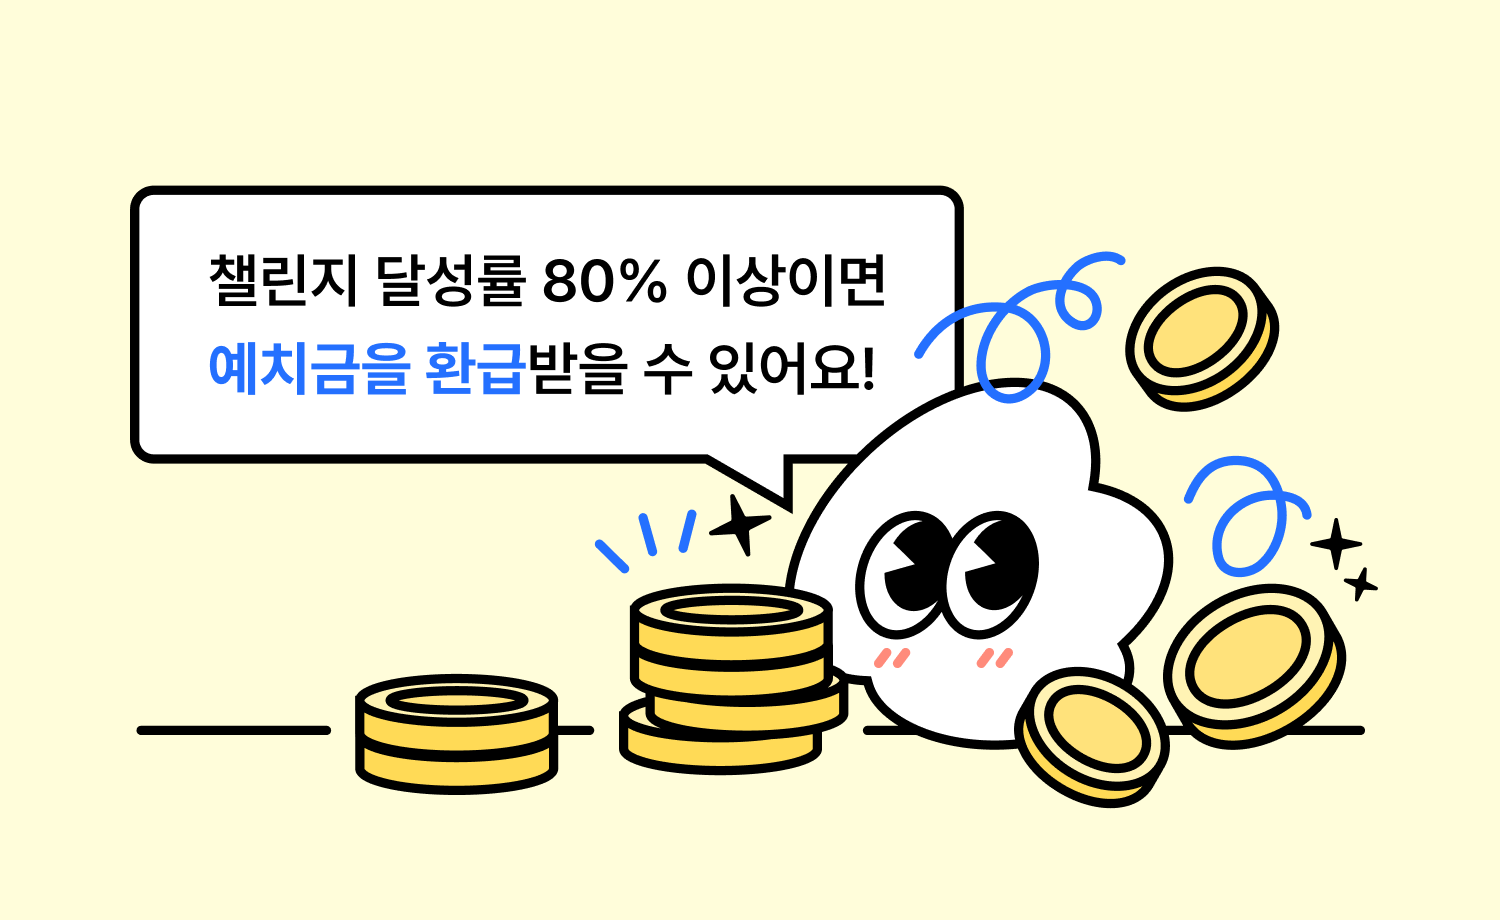
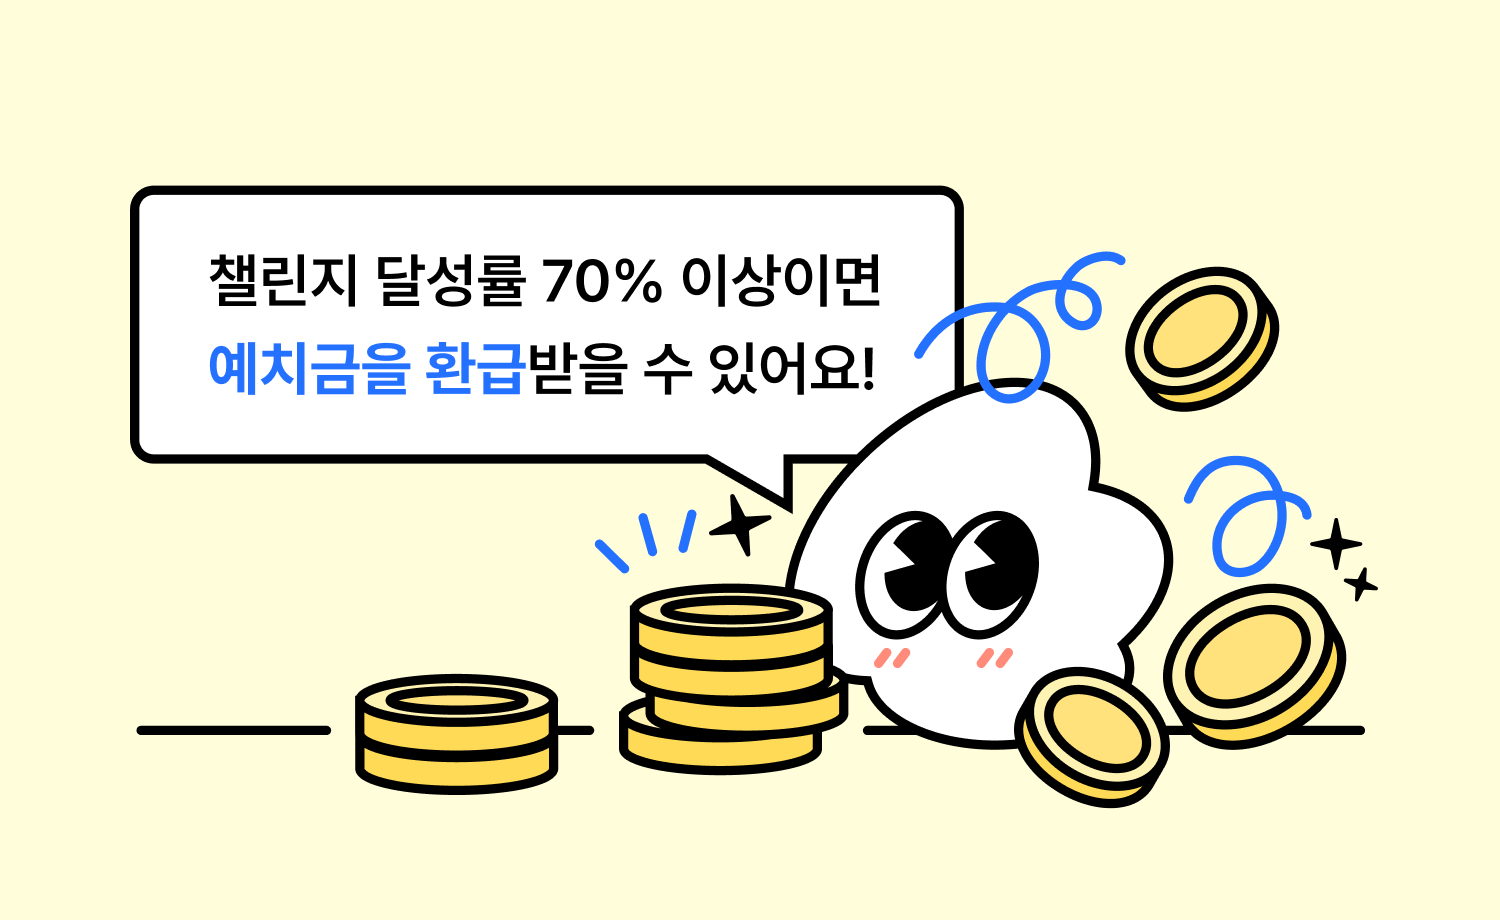
[⚙ chore] 달성률 기준 변경에 따른 홈 배너 이미지 변경 및 대체 텍스트 수정

Changed region(s): [[0.3373, 0.2739, 0.6133, 0.3348]]

diff --git a/src/components/home/TopBanner.tsx b/src/components/home/TopBanner.tsx
@@ -28,7 +28,7 @@ const bannerItems: IBannerItem[] = [
   {
     image: {
       src: '/images/image-waved-banner2.png',
-      alt: '챌린지 달성률 80% 이상이면 예치금을 환급받을 수 있어요!',
+      alt: '챌린지 달성률 70% 이상이면 예치금을 환급받을 수 있어요!',
     },
   },
   {
